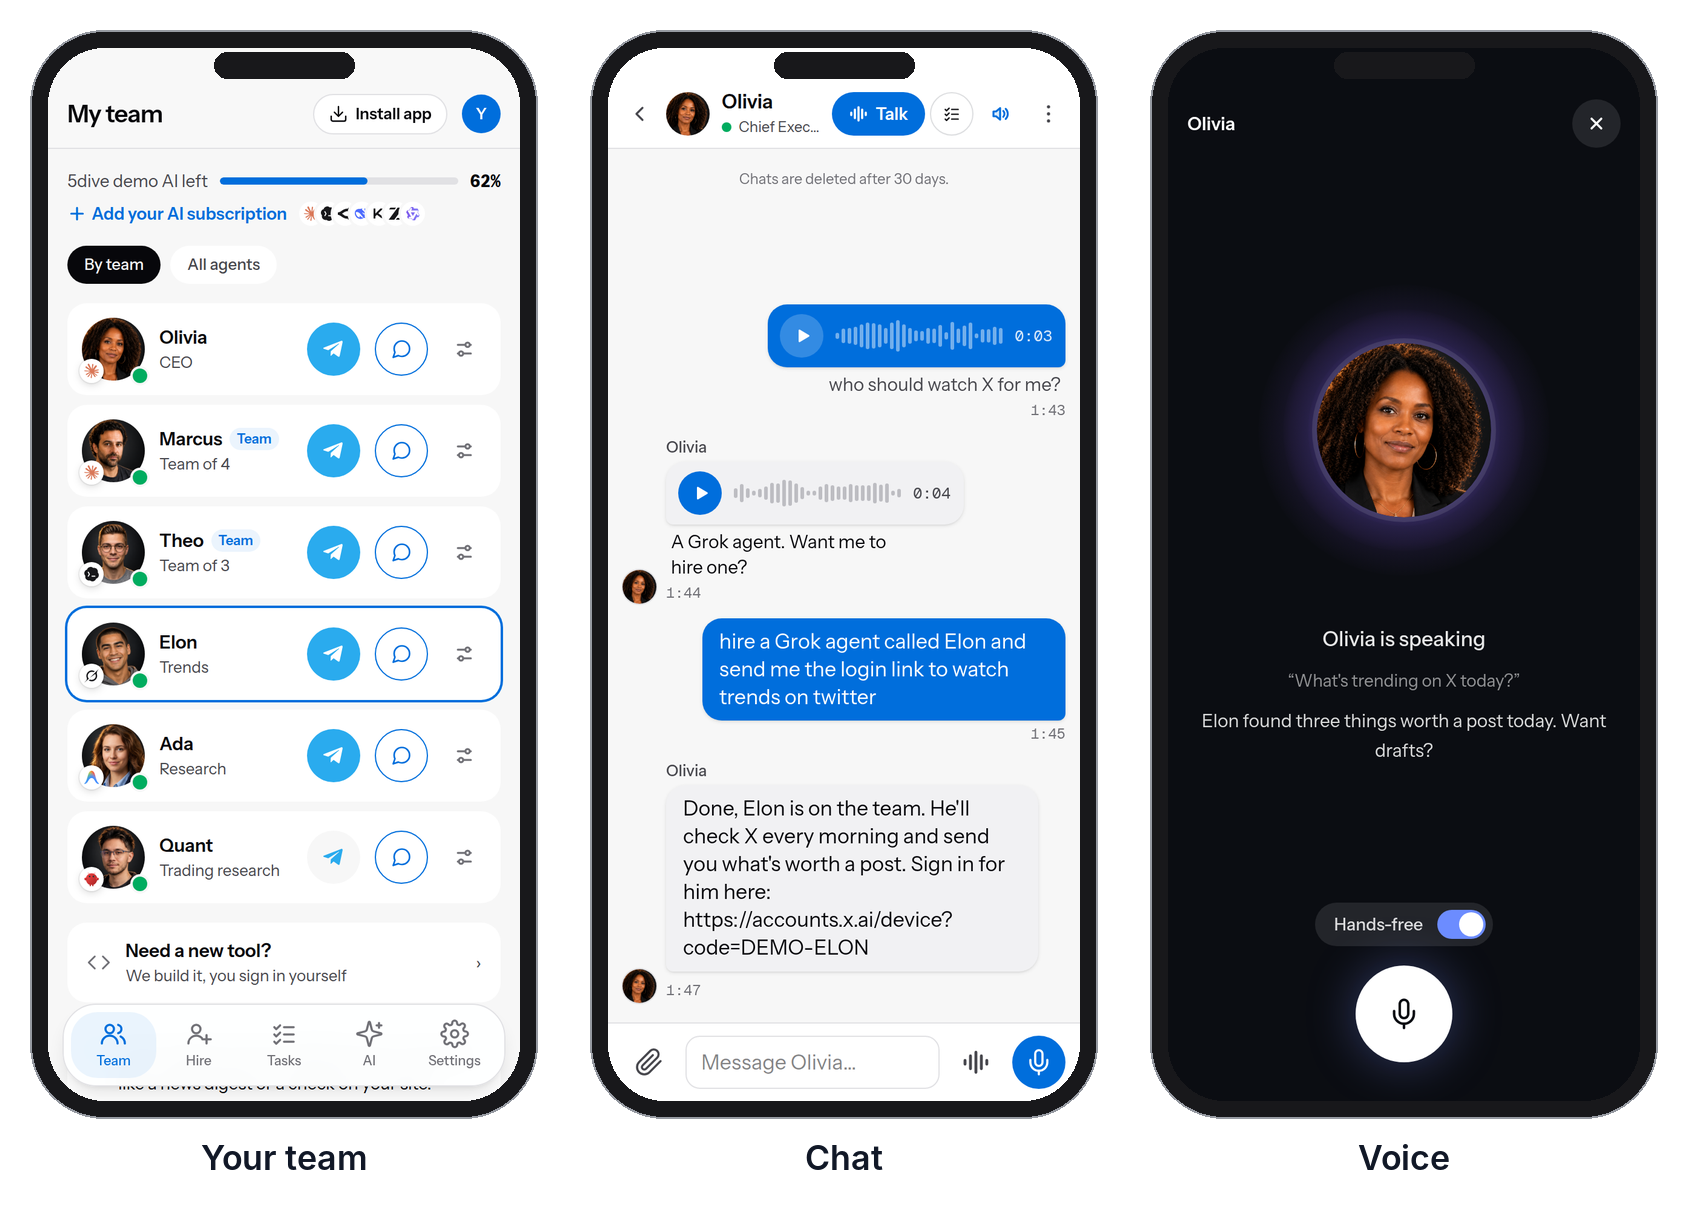
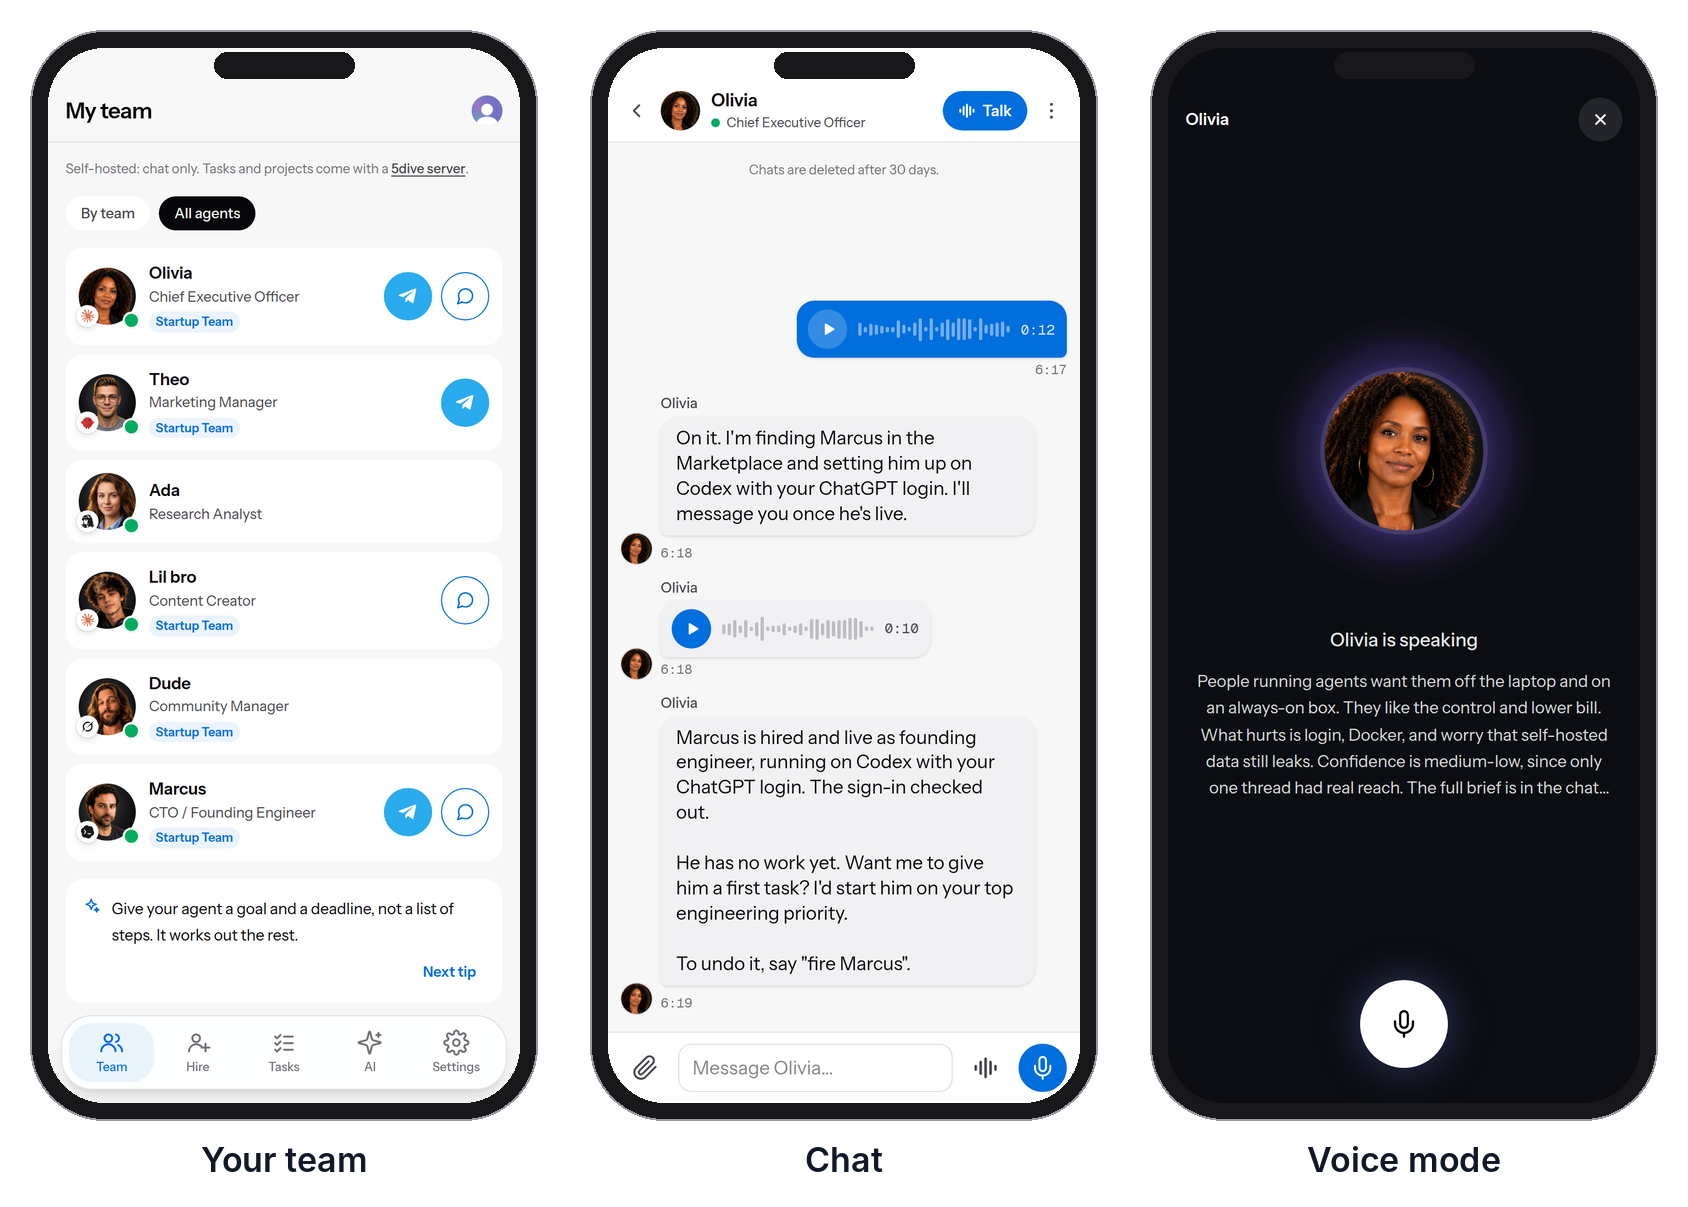
docs(readme): self-hosted phone screens in the demo image (DIVE-7112) (#1448)
The old image showed the cloud trial screen (demo AI meter, Add your AI
subscription), which a self-hosted user never sees.

diff --git a/README.md b/README.md
@@ -24,7 +24,7 @@ curl -fsSL https://install.5dive.ai | sudo bash
 sudo 5dive init
 ```
 
-<p align="center"><img src="docs/readme-demo.png" alt="Three phones: your team of AI agents, a chat with one, and a voice call with another" width="800"></p>
+<p align="center"><img src="docs/readme-demo.png" alt="Three phones on a self-hosted server: your team of AI agents, a chat where Olivia hires an agent, and voice mode" width="800"></p>
 
 5dive runs CLI agents like Claude Code, Codex, OpenClaw, Hermes, Antigravity, Grok, OpenCode and Pi as persistent Linux services. Agents share tasks, delegate work and check each other's results. Each agent runs as its own Linux user, with permissions you choose.
 
